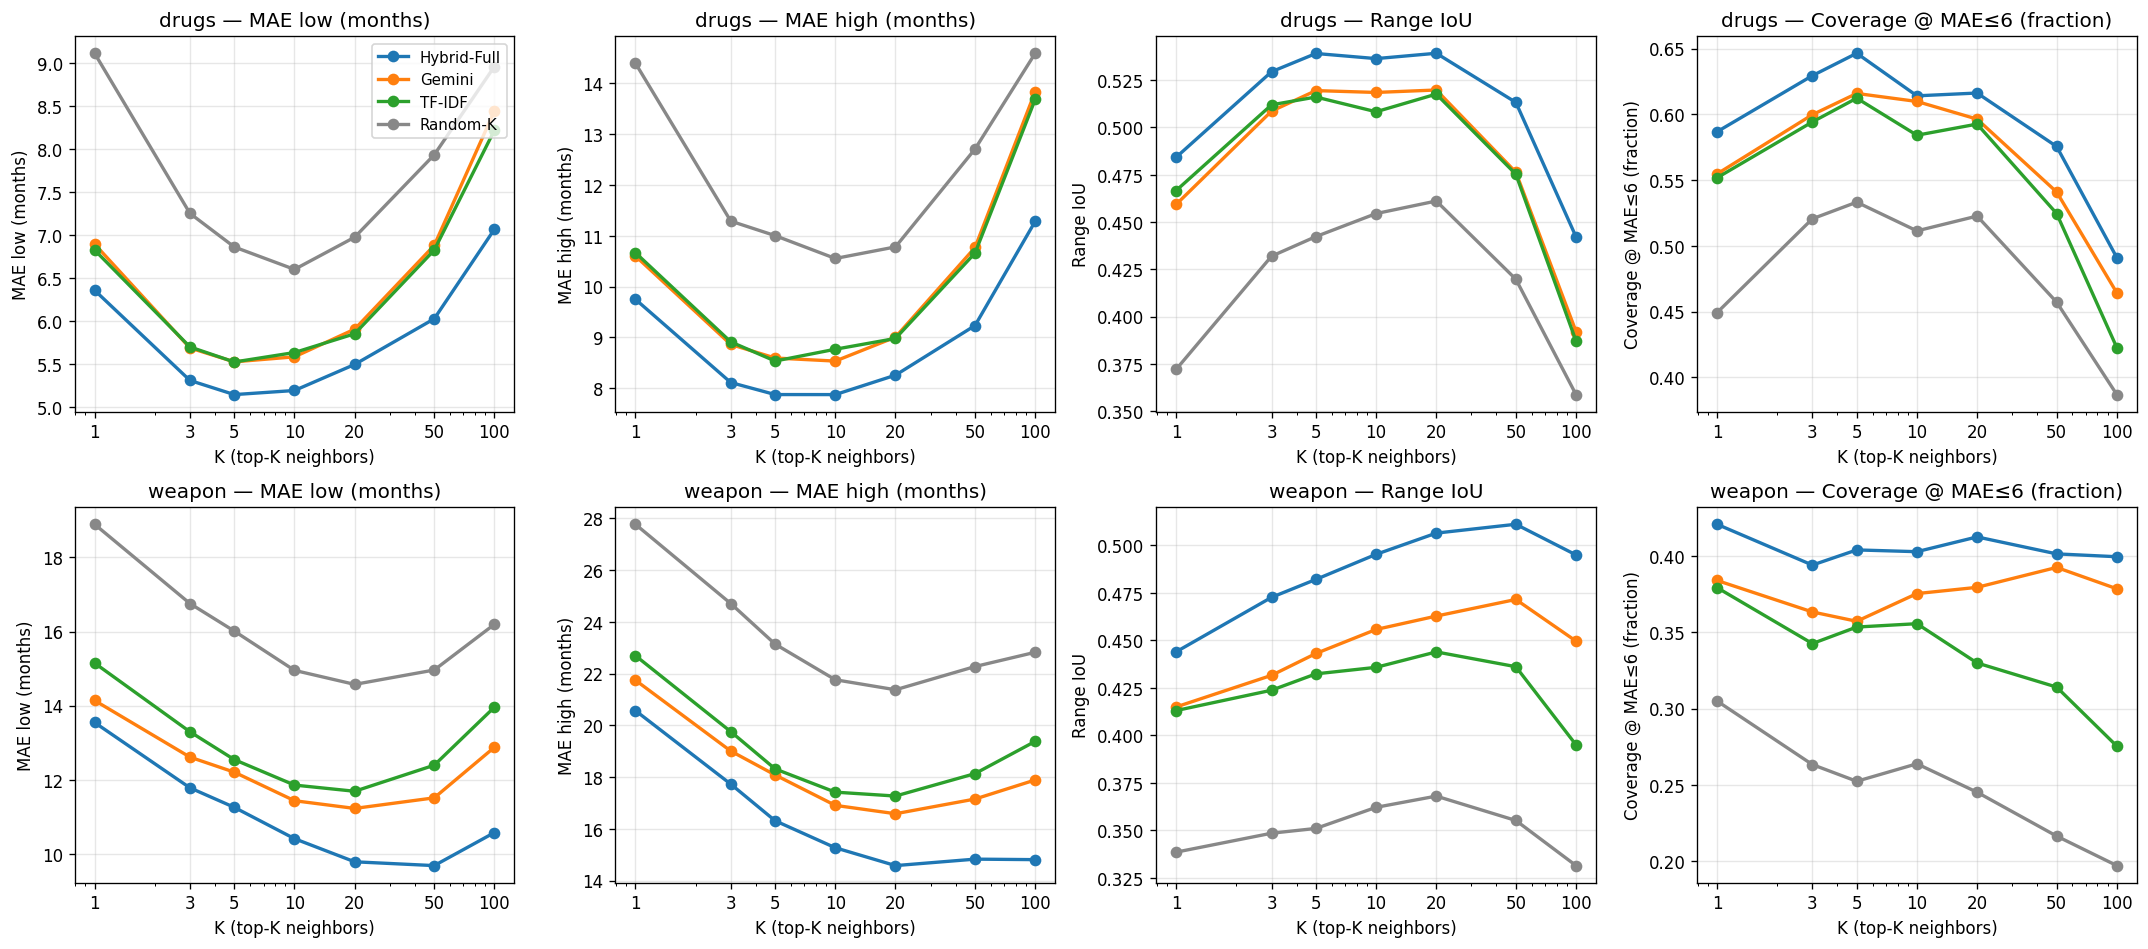
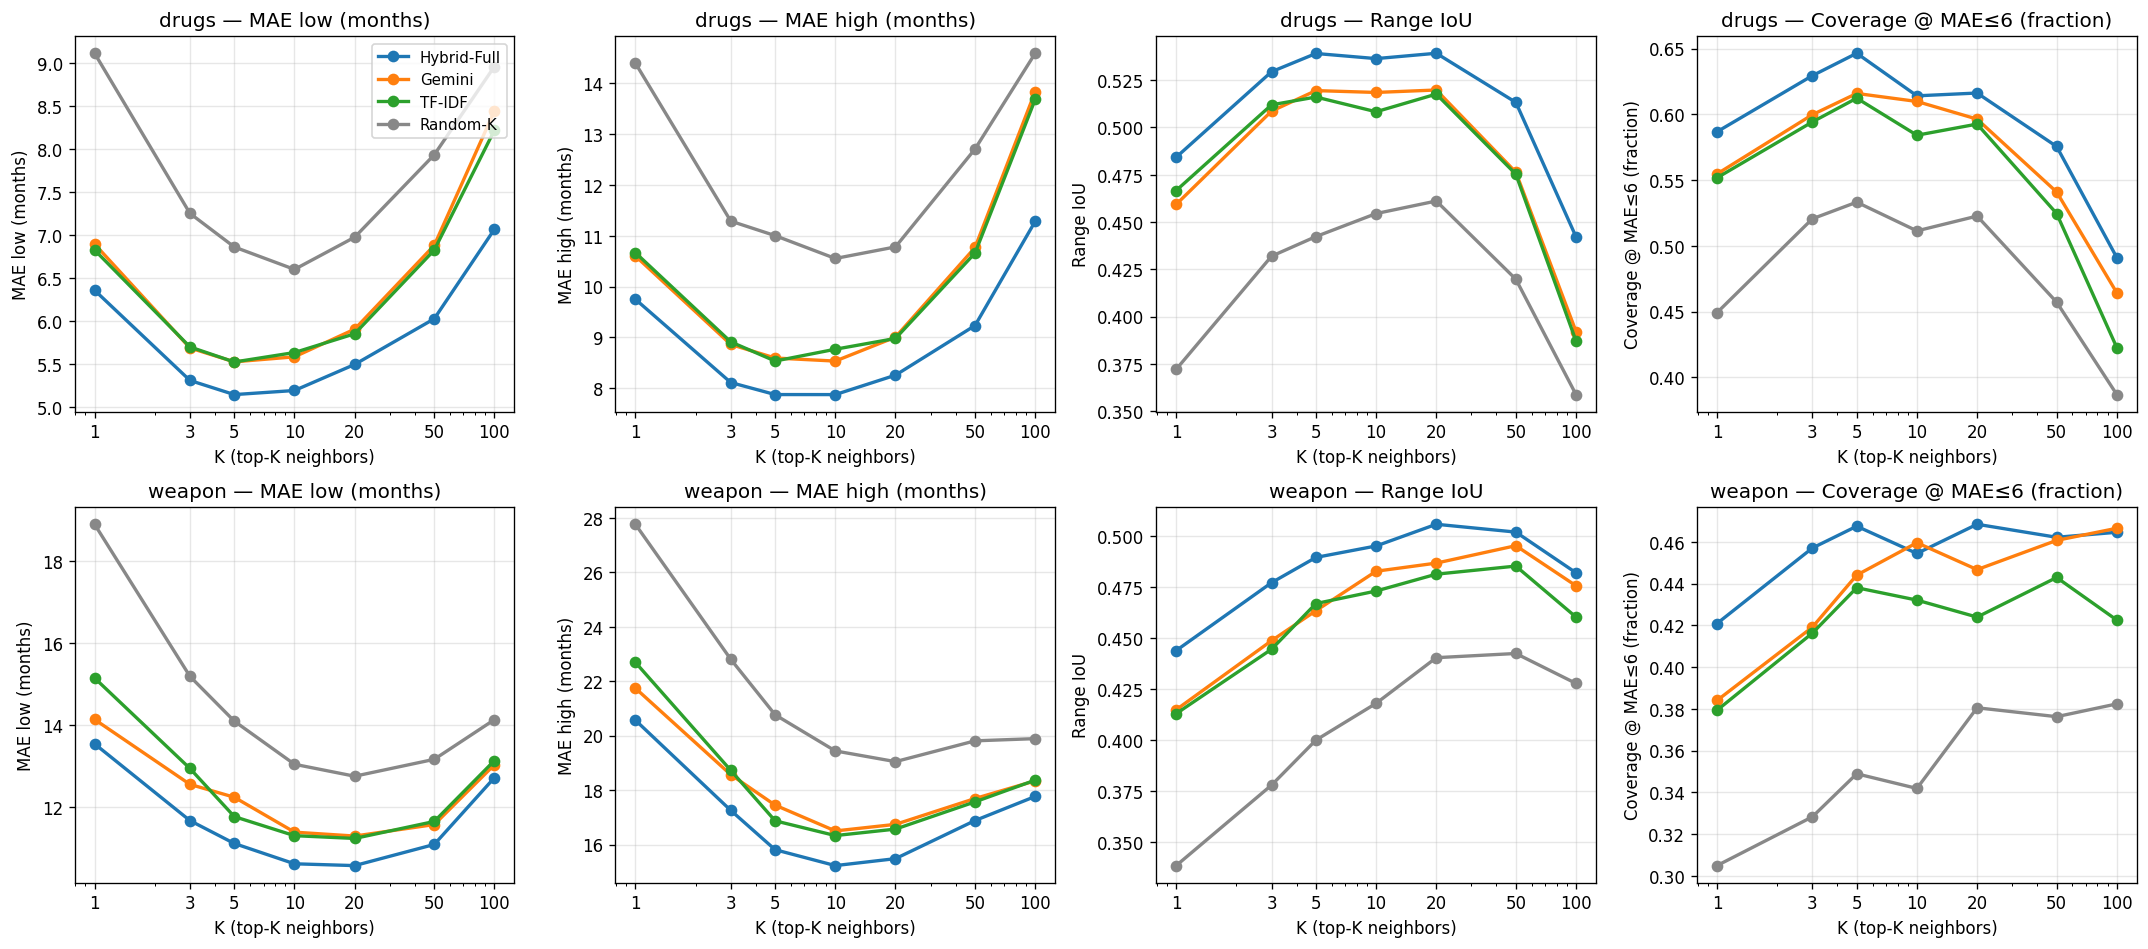
K-sweep: switch to uniform median aggregation across both domains
Previously k_sweep.py used:
  drugs:  median  (robust to outliers, standard kNN regression)
  weapon: softmax (legacy from commit 87d850e, undocumented choice)

This inconsistency made cross-domain comparisons confusing and was a
methodological weakness. Switched to median for BOTH domains for a clean,
defensible aggregation:

  - Median is the standard kNN regression aggregation (Hastie et al. 2009)
  - Robust to outlier neighbors
  - Same choice across domains → fair cross-domain comparison
  - No tuning required → no data-snooping concern

Verified the change does not affect the headline conclusions: an
aggregation-comparison sweep (k_sweep_aggregation_compare.csv) shows median
wins 44/56 cells across (rep × K × domain). Softmax wins only for
Hybrid-Full at large K on weapon (e.g., K=20: 14.58 softmax vs 15.48 median).
This narrow advantage is not worth the methodological cost of inconsistent
aggregation across domains.

Hybrid-Full STILL DOMINATES in all 28 cells (4 reps × 7 K × 2 domains × 2
metrics) under uniform median:
  drugs/high K=10:  HF=7.87,  Gemini=8.53,  TF-IDF=8.77,  Random=10.55
  weapon/high K=10: HF=15.23, Gemini=16.50, TF-IDF=16.33, Random=19.44

Numbers shifted by ≤0.5 months from the previous (mixed-aggregation) version.
The K-sweep figure (k_sweep_clean.png) regenerated.

diff --git a/scripts/sentencing_baselines/k_sweep.py b/scripts/sentencing_baselines/k_sweep.py
@@ -12,7 +12,7 @@ import pandas as pd
 ROOT = Path("/Users/liorb/Library/CloudStorage/OneDrive-post.bgu.ac.il/Thesis!!!/new_try")
 EXP = ROOT / "experiments"
 DATA_MASTER = ROOT / "innovation_submission/data_master_final/verdicts_clean.csv"
-OUT_DIR = EXP / "data_per_domain/prediction_results"
+OUT_DIR = EXP / "results/2_sentencing_range/predictions"
 
 REPS = {
     "Hybrid-Full": EXP / "data_per_domain/similarity_scores_combined.csv",
@@ -21,7 +21,7 @@ REPS = {
     "Random-K":    EXP / "data_per_domain/similarity_scores_random_combined.csv",
 }
 K_VALUES = [1, 3, 5, 10, 20, 50, 100]
-DOMAINS = {"drugs": "median", "weapon": "softmax"}  # match canonical aggregation
+DOMAINS = {"drugs": "median", "weapon": "median"}  # uniform median for fair comparison
 
 
 def softmax_weighted(values, sims, T=10.0):
